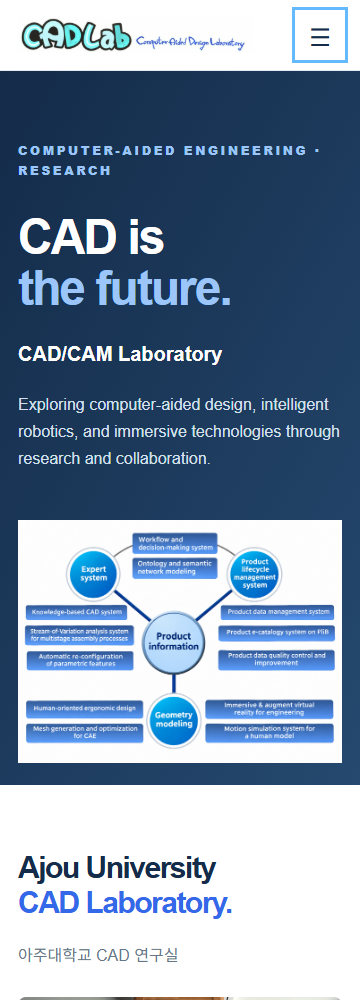
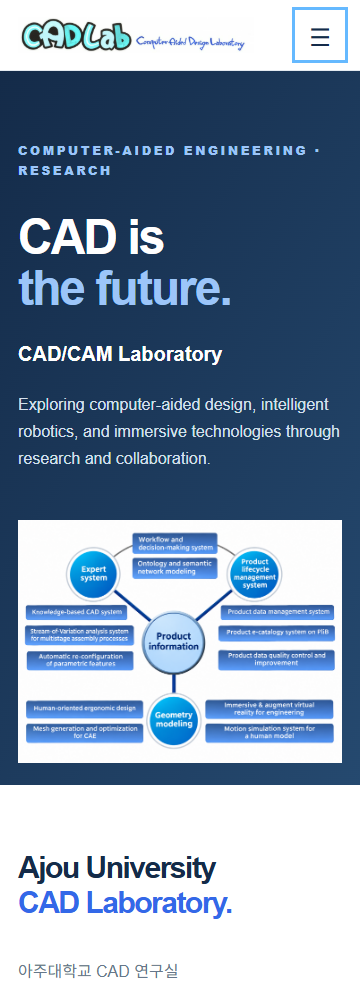
Balance group photo size and vertical placement

Changed region(s): [[0.0611, 0.93, 0.6417, 1.0], [0.6722, 0.992, 0.9472, 1.0]]

diff --git a/assets/styles.css b/assets/styles.css
@@ -39,7 +39,9 @@ a:focus-visible,button:focus-visible{outline:3px solid #65b9ff;outline-offset:3p
 .section.light{background:var(--light)}
 .section-grid{display:grid;grid-template-columns:1fr 1fr;gap:55px}
 .about-layout{row-gap:36px;align-items:start}
-.about-photo{display:block;width:100%;max-width:480px;height:auto;object-fit:contain;margin:28px 0 0;border-radius:8px}
+.about-layout>div:first-child{align-self:stretch;display:flex;flex-direction:column;align-items:flex-start}
+.about-layout>div:first-child>.muted{margin-bottom:32px}
+.about-photo{display:block;width:100%;max-width:513px;height:auto;object-fit:contain;margin:auto 0;border-radius:8px}
 .about-facilities{grid-column:1/-1;min-width:0}
 .about-facilities img{display:block;width:100%;height:auto;object-fit:contain;border-radius:8px}
 .overline{font-size:11px;letter-spacing:2px;color:var(--blue);font-weight:800;margin:0 0 14px}
@@ -80,6 +82,7 @@ h2{font-size:clamp(30px,3.8vw,46px);line-height:1.15;letter-spacing:-1.5px;color
 .section{padding:66px 0}
 .section-grid{grid-template-columns:1fr;gap:8px}
 .about-layout{row-gap:28px}
+.about-photo{margin:0 auto}
 .section-heading{display:block}
 .section-heading>p{margin-top:12px}
 .cards{grid-template-columns:1fr}

diff --git a/.github/review/hero/README.md b/.github/review/hero/README.md
@@ -93,3 +93,7 @@ Added Korean descriptions beneath the existing English in all three Research are
 ## Expanded English introduction
 
 Removed the selected Location & contact link. Expanded the English About paragraph from the existing Korean introduction: geometric modeling, product-development information integration, manufacturing PLM, commercial C3PE application development and industry–university collaboration. Korean copy and detailed records remain unchanged. Updated both the HTML fallback and dynamic content source; five-width checks and existing regressions passed.
+
+## Group photo balance
+
+Increased the group photo cap from 480 to its native 513 px width and centered it vertically in the space below the left heading, balancing the expanded bilingual introduction. Mobile uses normal document flow with centered proportional imagery. Five-width checks and 30 Logo navigation checks passed; About screenshots refreshed.
